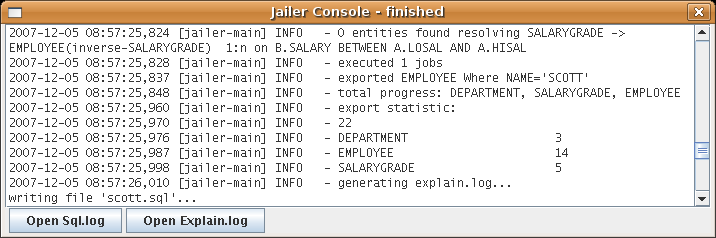
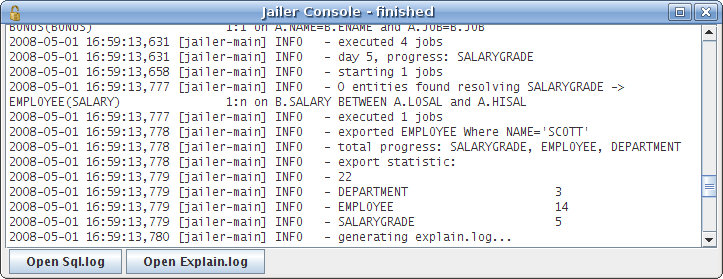
0

diff --git a/trunk/doc/web/exporting-data.htm b/trunk/doc/web/exporting-data.htm
@@ -140,7 +140,7 @@ on windows platform)<br>
               </tbody>
             </table>
             <br>
-            <img style="width: 304px; height: 119px;"
+            <img 
  src="exporting-data-Dateien/screen1.png"><br>
             </p>
             <p><br>
@@ -153,7 +153,7 @@ the database schema.<br>
             <br>
 Click on<span style="font-style: italic;"> Introspect DB</span><br>
             <br>
-            <img style="width: 529px; height: 258px;"
+            <img 
  src="exporting-data-Dateien/screen2.png"><br>
             <br>
             <br>
@@ -165,7 +165,7 @@ Click on<span style="font-style: italic;"> Connect</span><big
  style="font-style: italic;">.</span>
 Jailer finds four tables and two associations:<br>
             <br>
-            <img style="width: 756px; height: 254px;"
+            <img 
  src="exporting-data-Dateien/screen3.png"><br>
             <br>
             <br>
@@ -177,8 +177,10 @@ Add the definitions manually (<big><span style="font-family: monospace;"><span
  style="font-family: mon;"><span style="font-style: italic;">Add</span>-</span></span></big>Button
 under <big><span style="font-family: monospace;"><font size="4">Associations</font></span></big>):<br>
             <br>
-            <img style="width: 484px; height: 217px;"
+            <img 
  src="exporting-data-Dateien/screen4.png"><br>
+            <br><img 
+ src="exporting-data-Dateien/screen42.png"><br>
             <br>
 Note that Jailer now knows more about the data model than the DBMS.<br>
             <br>
@@ -193,7 +195,7 @@ as table to extract from and type <span style="font-family: monospace;">NAME</sp
  style="font-family: monospace;"><font size="4">='SCOTT'</font></span></big>
 into the <span style="font-style: italic;">Where</span>-field:<br>
             <br>
-            <img style="width: 739px; height: 322px;"
+            <img 
  src="exporting-data-Dateien/screen8.png"><br>
             <br>
             <br>
@@ -205,9 +207,9 @@ entities associated with these entities and so forth.<br>
 Export this set (<span style="font-style: italic;">Export Data</span>-Button
 or <span style="font-style: italic;">T</span><span
  style="font-style: italic;">ools-&gt;Export Data</span>).
-Jailer first asks for a file name for the new extraction model:<br>
+Jailer first asks for a file name for the new extraction model. Call it <big><span style="font-family: monospace;"><font size="4">scott.csv</font></span></big><br>
             <br>
-            <img style="width: 558px; height: 180px;"
+            <img 
  src="exporting-data-Dateien/screen7.png"><br>
             <br>
             <br>
@@ -217,7 +219,7 @@ generated. <br>
             <br>
 Click on <span style="font-style: italic;">Export Data</span>:<br>
             <br>
-            <img style="width: 783px; height: 481px;"
+            <img 
  src="exporting-data-Dateien/screen9.png"><br>
             <br>
             <br>
@@ -233,16 +235,16 @@ But why are there also statements for all other employees?<br>
             <br>
 Let Jailer explain why:<br>
             <br>
-            <img style="width: 558px; height: 180px;"
+            <img 
  src="exporting-data-Dateien/screen10.png"><br>
             <br>
-            <img style="width: 716px; height: 238px;"
+            <img 
  src="exporting-data-Dateien/screen11.png"><br>
             <br>
             <br>
 Open the <span style="font-family: monospace;">Explain.log</span>:<br>
             <br>
-            <img style="width: 806px; height: 327px;"
+            <img 
  src="exporting-data-Dateien/screen12.png"><br>
             <br>
 Scotts is Adams boss and James and Adams are both classified in the
@@ -264,15 +266,10 @@ subordinates, 'same department'-members and 'same
 salary-grade'-employees, we must restrict some associations. To do so,
 define some <span style="font-style: italic;">restrictions:</span><br>
             <br>
-            <img style="width: 950px; height: 322px;"
+            <img 
  src="exporting-data-Dateien/screen13.png"><br>
             <br>
-            <img style="width: 950px; height: 322px;"
- src="exporting-data-Dateien/screen14.png"><br>
-            <br>
-            <img style="width: 950px; height: 322px;"
- src="exporting-data-Dateien/screen15.png"><br>
-            <br>
+            
             <br>
 The <span style="font-style: italic;">restriction-condition</span> is
 an extension of the associations join-condition (in

diff --git a/trunk/doc/web/deleting-data.htm b/trunk/doc/web/deleting-data.htm
@@ -108,7 +108,7 @@ from previous
 tutorial. Use <span style="font-style: italic;">Tools-&gt;Export Data</span>
 again and enter <big><span style="font-family: monospace;">delete-scott.sql</span></big>
 as name of delete-script:<br>
-            <p> <img style="width: 558px; height: 180px;"
+            <p> <img 
  src="deleting-data-Dateien/screen17.png"><br>
             </p>
             <p><br>
@@ -175,8 +175,7 @@ remaining data.<br>
 In order to delete Scott, me must delete his subordinate
 too. To do so, relax the restriction on the <span
  style="font-style: italic;">inverse-BOSS</span>-association:
-            <p><img style="width: 939px; height: 323px;"
- src="deleting-data-Dateien/screen18.png"><br>
+            <p><img src="deleting-data-Dateien/screen18.png"><br>
             <br>
             <br>
 and <span style="font-style: italic;">Export Data </span>again:<br>
@@ -263,6 +262,10 @@ Model Editor</span>), select and <span style="font-style: italic;">edit</span>
 table DEPARTMENT and switch <span style="font-style: italic;">exclude
 from deletion</span> on. Do the same with SALARYGRADE.<br>
             <br>
+            <img src="deleting-data-Dateien/screen1.png">
+            <br> <br>
+            <img src="deleting-data-Dateien/screen2.png">
+             <br> <br> <br>
 Repeat exportation. The delete-script now contains only employees.<br>
             <br>
             <table

diff --git a/trunk/src/net/sf/jailer/ui/ExtractionModelFrame.java b/trunk/src/net/sf/jailer/ui/ExtractionModelFrame.java
@@ -985,7 +985,7 @@ public class ExtractionModelFrame extends javax.swing.JFrame {
 			out = new PrintWriter(new FileOutputStream(associations));
 			out.println("# Table A; Table B; First-insert; Cardinality; Join-condition; Name; Author");
 			out.println("EMPLOYEE; BONUS; ; 1:1; A.NAME=B.ENAME and A.JOB=B.JOB; BONUS; Demo; ; ");
-			out.println("SALARYGRADE; EMPLOYEE; ; 1:n; B.SALARY BETWEEN A.LOSAL and A.HISAL; SALARY; Demo; ; ");
+			out.println("EMPLOYEE; SALARYGRADE; ; n:1; A.SALARY BETWEEN B.LOSAL and B.HISAL; SALARY; Demo; ; ");
 			out.println("EMPLOYEE; DEPARTMENT; B; n:1; A.DEPTNO=B.DEPTNO; DEPARTMENT; Demo; ; ");
 			out.println("EMPLOYEE; EMPLOYEE; B; n:1; A.BOSS=B.EMPNO; BOSS; Demo; ; ");
 			out.close();

diff --git a/trunk/src/net/sf/jailer/ui/UIUtil.java b/trunk/src/net/sf/jailer/ui/UIUtil.java
@@ -332,7 +332,7 @@ public class UIUtil {
      */
     public static void initPeer() {
     	try {
-			Thread.sleep(100);
+			Thread.sleep(200);
 		} catch (InterruptedException e) {
 		}
     }
